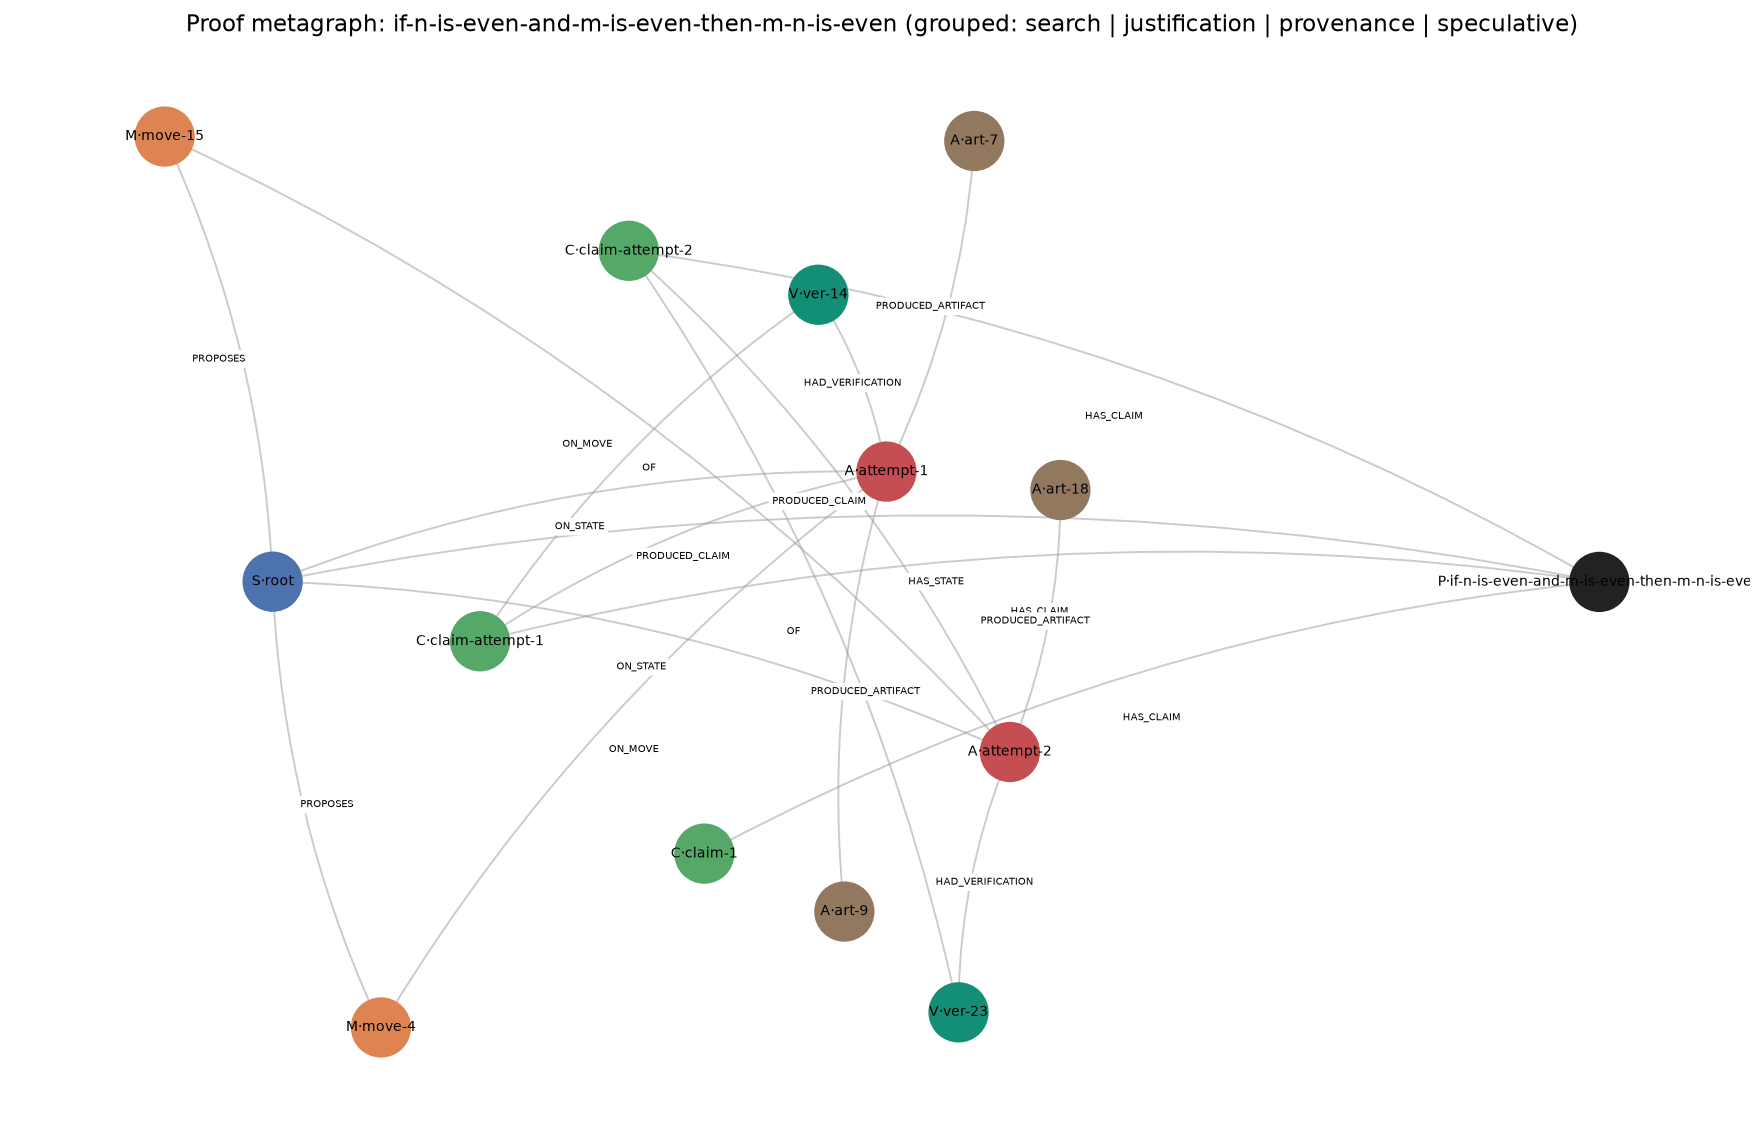
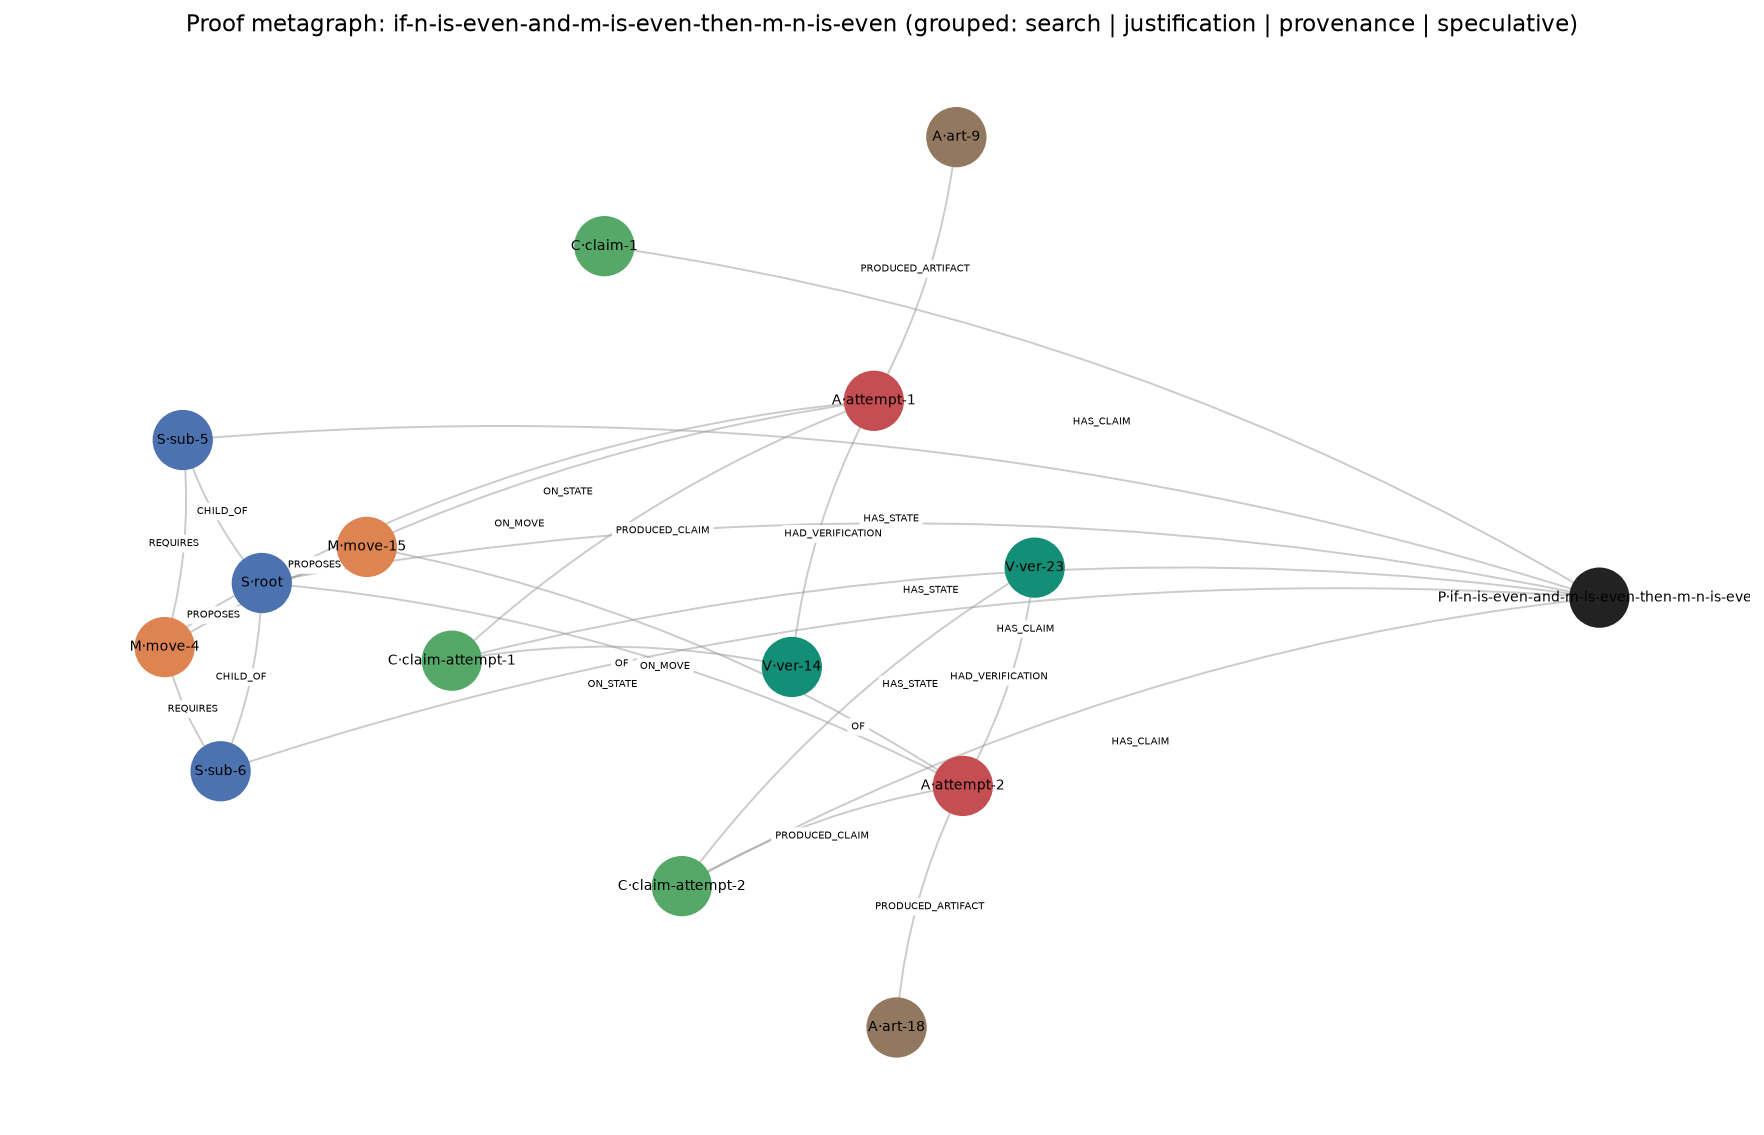
add the real lean integration

diff --git a/proof_proto/langgraph_workflow.py b/proof_proto/langgraph_workflow.py
@@ -19,7 +19,6 @@ import json
 import os
 import re
 from unittest import result
-from unittest import result
 import urllib.request
 from abc import ABC, abstractmethod
 from pathlib import Path
@@ -152,13 +151,13 @@ def _formalize_prompt(theorem: str, move_summary: str, claim_statement: str, con
         f"    what was left as `sorry`"
     )
 
-
-def _equivalence_prompt(claim_statement: str, lean_code: str) -> str:
+def _equivalence_prompt(theorem: str, claim_statement: str, lean_code: str) -> str:
     return (
         f"You are reviewing a Lean 4 translation for faithfulness to an informal claim.\n"
         f"Do not judge whether the Lean code compiles — only whether, if it did compile,\n"
         f"it would say the same mathematical thing as the informal claim: same quantifiers,\n"
         f"same domain, same strength.\n"
+        f"Theorem being worked on: {theorem}\n"
         f"Informal claim: {claim_statement}\n"
         f"Lean 4 statement:\n{lean_code}\n"
         f"Return ONLY a JSON object with exactly these keys:\n"
@@ -317,8 +316,10 @@ class LLMClient(ABC):
             self._respond(_formalize_prompt(theorem, move_summary, claim_statement, context))
         )
 
-    def check_equivalence(self, claim_statement: str, lean_code: str) -> dict:
-        return _normalize_equivalence(self._respond(_equivalence_prompt(claim_statement, lean_code)))
+    def check_equivalence(self, theorem: str, claim_statement: str, lean_code: str) -> dict:
+        return _normalize_equivalence(
+            self._respond(_equivalence_prompt(theorem, claim_statement, lean_code))
+        )
 
     def repair_formalization(
         self, theorem: str, claim_statement: str, lean_code: str, diagnostic: str, category: str, context: dict,
@@ -512,7 +513,7 @@ class LeanChecker:
     def __init__(
         self,
         binary: str = "lean",
-        timeout_seconds: int = 20,
+        timeout_seconds: int = 45,
         use_lake: bool = False,
         lake_project_dir: str = "",
     ):
@@ -573,6 +574,7 @@ class LeanChecker:
         source_hash, error_category (only set on a genuine compiler failure).
         """
         toolchain = toolchain or self._resolve_toolchain()
+        print("DEBUG toolchain resolved to:", repr(toolchain))
         mathlib_revision = mathlib_revision or (
             self._resolve_mathlib_revision() if self.use_lake else ""
         )
@@ -800,7 +802,7 @@ class ProofWorkflow:
         namespace = f"Proof_{_lean_identifier(project.proof_id)}"
 
         # as the informal claim, before we ever bother invoking Lean? -----------
-        review = self.llm.check_equivalence(claim_statement, lean_code)
+        review = self.llm.check_equivalence(theorem,claim_statement, lean_code)
         relation_to_category = {
             "stronger": "formal_statement_stronger_than_informal",
             "weaker": "translation_ambiguity",
@@ -818,8 +820,11 @@ class ProofWorkflow:
             if repair["translatable"] and repair["lean_code"]:
                 lean_code = repair["lean_code"]
                 lean_name = repair["lean_name"] or lean_name
-                review = self.llm.check_equivalence(claim_statement, lean_code)
-                equivalence_category = relation_to_category.get(review["relation"], "")
+                review = self.llm.check_equivalence(theorem,claim_statement, lean_code)
+                if review["relation"] == "stronger":
+                    equivalence_category = "formal_statement_stronger_than_informal"
+                else:
+                    equivalence_category = ""
             else:
                 # Repair agent judged this a genuine mathematical gap, not a
                 # fixable translation slip — expose it rather than keep trying.
@@ -850,6 +855,7 @@ class ProofWorkflow:
                         deny_sorry=True,
                     )
                     final_status = check.get("status", "unavailable")
+        
 
         # --- commit source + log as artifacts 
         source_artifact = project.write_artifact(
@@ -862,19 +868,22 @@ class ProofWorkflow:
             )
 
         # --- write the claim + its Lean metadata 
+        resolved_toolchain = check.get("toolchain") or self.toolchain
+        resolved_mathlib_revision = check.get("mathlib_revision") or self.mathlib_revision
+
         project.add_claim(claim_id, claim_statement)
         project.link_produced_claim(attempt_id, claim_id)
         project.record_lean_formalization(
             claim_id, lean_name=lean_name, lean_statement_path=source_artifact["path"],
-            namespace=namespace, toolchain_hash=self.toolchain,
-            mathlib_revision=self.mathlib_revision, formalization_status=final_status,
+            namespace=namespace, toolchain_hash=resolved_toolchain,
+            mathlib_revision=resolved_mathlib_revision, formalization_status=final_status,
             last_compiler_output=check.get("output", review.get("notes", "")),
         )
 
         # --- record the verification 
         project.add_verification(
             attempt_id, claim_id, kind="lean", status=final_status, lean_name=lean_name,
-            toolchain_hash=self.toolchain, mathlib_revision=self.mathlib_revision,
+            toolchain_hash=resolved_toolchain, mathlib_revision=resolved_mathlib_revision,
             error_category=check.get("error_category", equivalence_category),
             axioms_used=check.get("axioms_used", []), timing_seconds=check.get("timing_seconds", 0.0),
             source_hash=check.get("source_hash", ""),

diff --git a/proof_proto/run_theorem.py b/proof_proto/run_theorem.py
@@ -84,9 +84,13 @@ def main() -> None:
 
     lean_checker = None
     if args.lake_project:
-        lean_checker = LeanChecker(use_lake=True, lake_project_dir=str(args.lake_project.resolve()))
+        lean_checker = LeanChecker(
+        use_lake=True,
+        lake_project_dir=str(args.lake_project.resolve()),
+        timeout_seconds=150,  # Mathlib-backed checks are much slower than bare lean
+    )
         print(f"lean checker: lake env lean (project: {args.lake_project})\n")
-
+    
     result = run_workflow(
         theorem=args.theorem, root=str(demo_dir),
         llm_client=llm, max_iterations=args.iterations,
